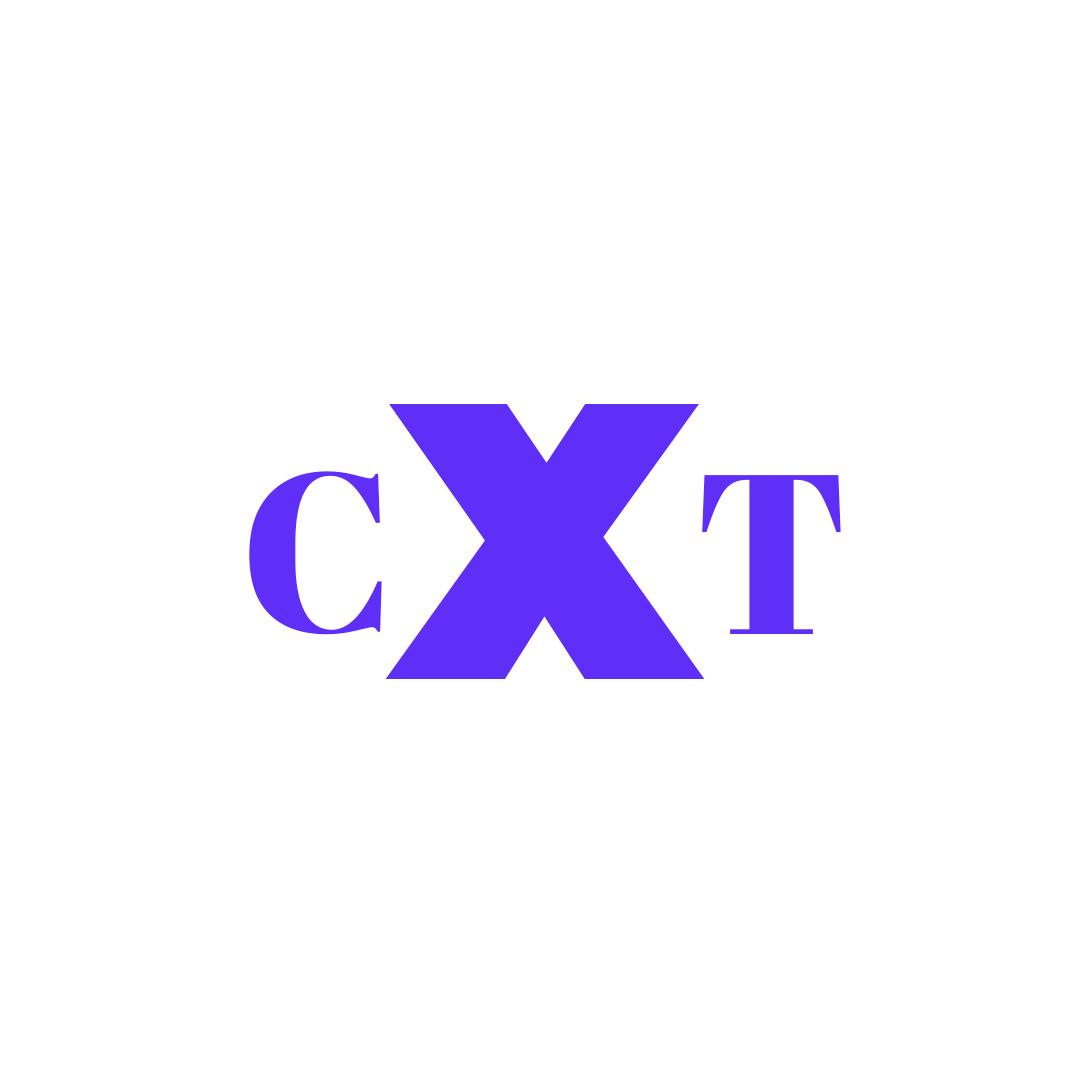
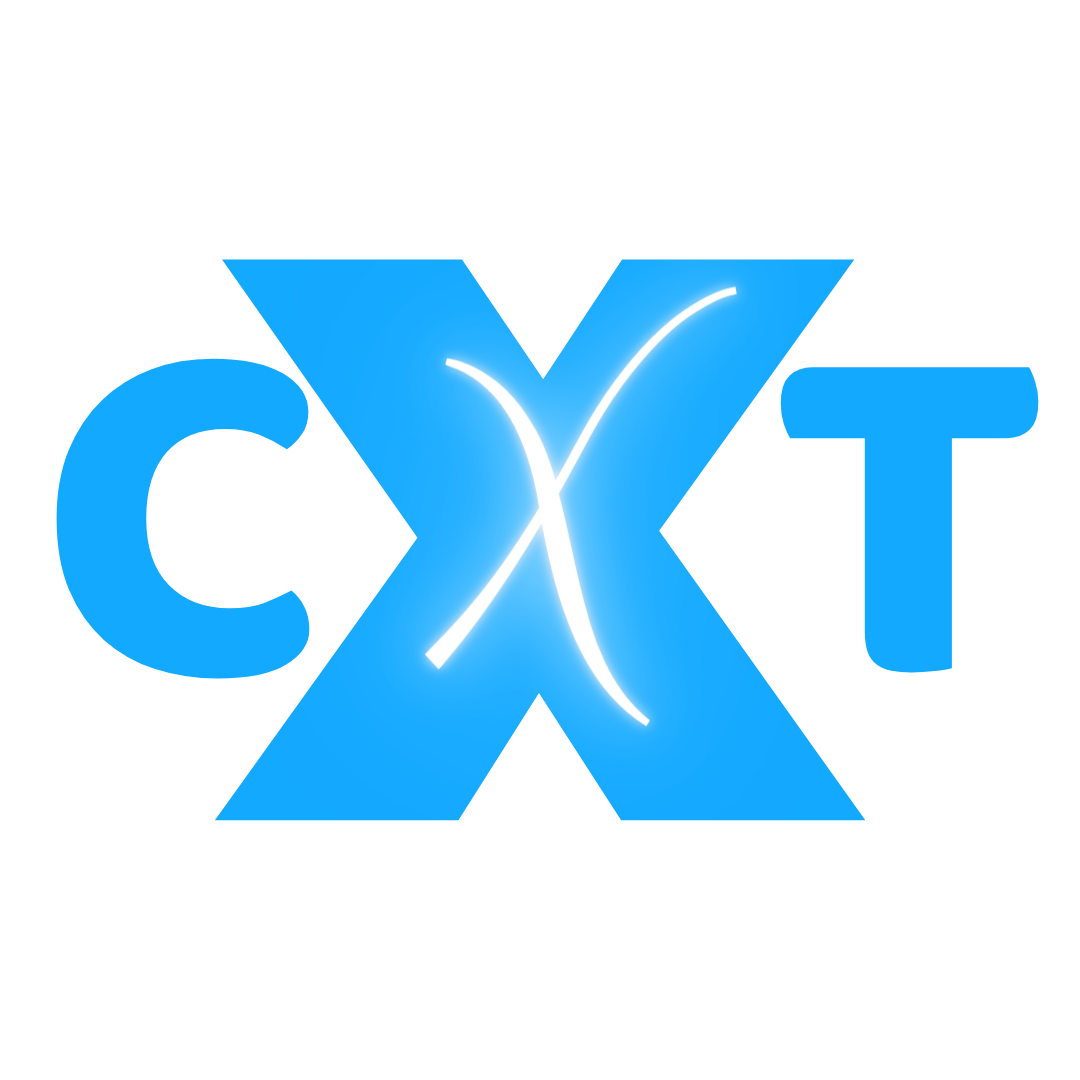
[web] alterando esquema de cores

Changed region(s): [[0.0306, 0.2139, 0.9778, 0.7639]]

diff --git a/web/src/components/navbar.tsx b/web/src/components/navbar.tsx
@@ -19,9 +19,9 @@ export function Navbar({ toggleHiddenSidebar }: NavbarProps) {
       color='inherit'
       position='fixed'
       style={{
-        background: 'rgb(243, 197, 197)',
+        background: 'rgb(35,61,255)',
         boxShadow: '1 0px 8px 5px rgba(0, 0, 0, 0.1)',
-        borderRadius: '10px 10px 0px 0px',
+        borderRadius: '16px 16px 0px 0px',
         top: 'auto',
         bottom: 0,
         width: isMobile ? '100%' : '50%',
@@ -30,14 +30,24 @@ export function Navbar({ toggleHiddenSidebar }: NavbarProps) {
     >
       <Toolbar>
         <Grid container justifyContent={isMobile ? 'flex-end' : 'space-between'} direction='row'>
-          <Grid item lg={5}>
-            <IconButton onClick={toggleHiddenSidebar}>
+          <Grid item>
+            <IconButton
+              onClick={toggleHiddenSidebar}
+              style={{
+                color: '#fff',
+              }}
+            >
               <MdMenuOpen />
             </IconButton>
           </Grid>
 
           <Grid item>
-            <IconButton onClick={signOut}>
+            <IconButton
+              onClick={signOut}
+              style={{
+                color: '#fff',
+              }}
+            >
               <MdExitToApp />
             </IconButton>
           </Grid>

diff --git a/web/src/components/menuOption.tsx b/web/src/components/menuOption.tsx
@@ -1,10 +1,10 @@
-import { IconType } from 'react-icons';
-import { Link } from 'react-router-dom';
-import { makeStyles } from '@material-ui/core/styles';
-
+import { IconButton } from '@material-ui/core';
 import ListItem from '@material-ui/core/ListItem';
 import ListItemText from '@material-ui/core/ListItemText';
-import { IconButton } from '@material-ui/core';
+import { makeStyles } from '@material-ui/core/styles';
+import { IconType } from 'react-icons';
+import { Link } from 'react-router-dom';
+
 interface MenuOptionProps {
   to: string;
   title: string;
@@ -20,7 +20,7 @@ export function MenuOption(props: MenuOptionProps) {
       transform: 'translateY(1px)',
       transition: 'transform 0.3s ease-in-out',
       '&:hover': {
-        color: '#D72323',
+        color: '#233DFF',
         transform: 'translateY(-5px)',
       },
     },

diff --git a/web/src/components/footer.tsx b/web/src/components/footer.tsx
@@ -12,10 +12,21 @@ export function Footer() {
       }}
     >
       <Typography variant='body2' color='textSecondary' align='center'>
+        <img
+          src='/static/images/mini.png'
+          alt='logo'
+          style={{
+            width: '50px',
+            height: '50px',
+          }}
+        />
+      </Typography>
+
+      <Typography variant='body2' color='textSecondary' align='center'>
         {'Copyright © '}
 
         <Link color='inherit' href='https://www.instagram.com/acamilateixeiraa'>
-          CXT - SISTEMAS
+          ClubXTech - Desenvolvimento de Software
         </Link>
 
         {` ${new Date().getFullYear()}.`}

diff --git a/web/src/components/logo.tsx b/web/src/components/logo.tsx
@@ -8,7 +8,7 @@ export function Logo() {
       titulo: {
         WebkitTextFillColor: 'transparent',
         fontWeight: 800,
-        background: '#C1A3A3',
+        background: '#233DFF',
         WebkitBackgroundClip: 'text',
         fontSize: 30,
         padding: '0px 10px',
@@ -20,7 +20,7 @@ export function Logo() {
 
   return (
     <Typography className={css.titulo} variant='h5'>
-      MPN - Meu Pequeno Negócio
+      ClubXTech - XCalendar
     </Typography>
   );
 }

diff --git a/web/src/app/index.tsx b/web/src/app/index.tsx
@@ -17,10 +17,10 @@ export function App() {
     palette: {
       type: type,
       primary: {
-        main: '#C1A3A3',
+        main: '#233DFF',
       },
       secondary: {
-        main: '#694E4E',
+        main: '#13A9FF',
       },
     },
     typography: {
